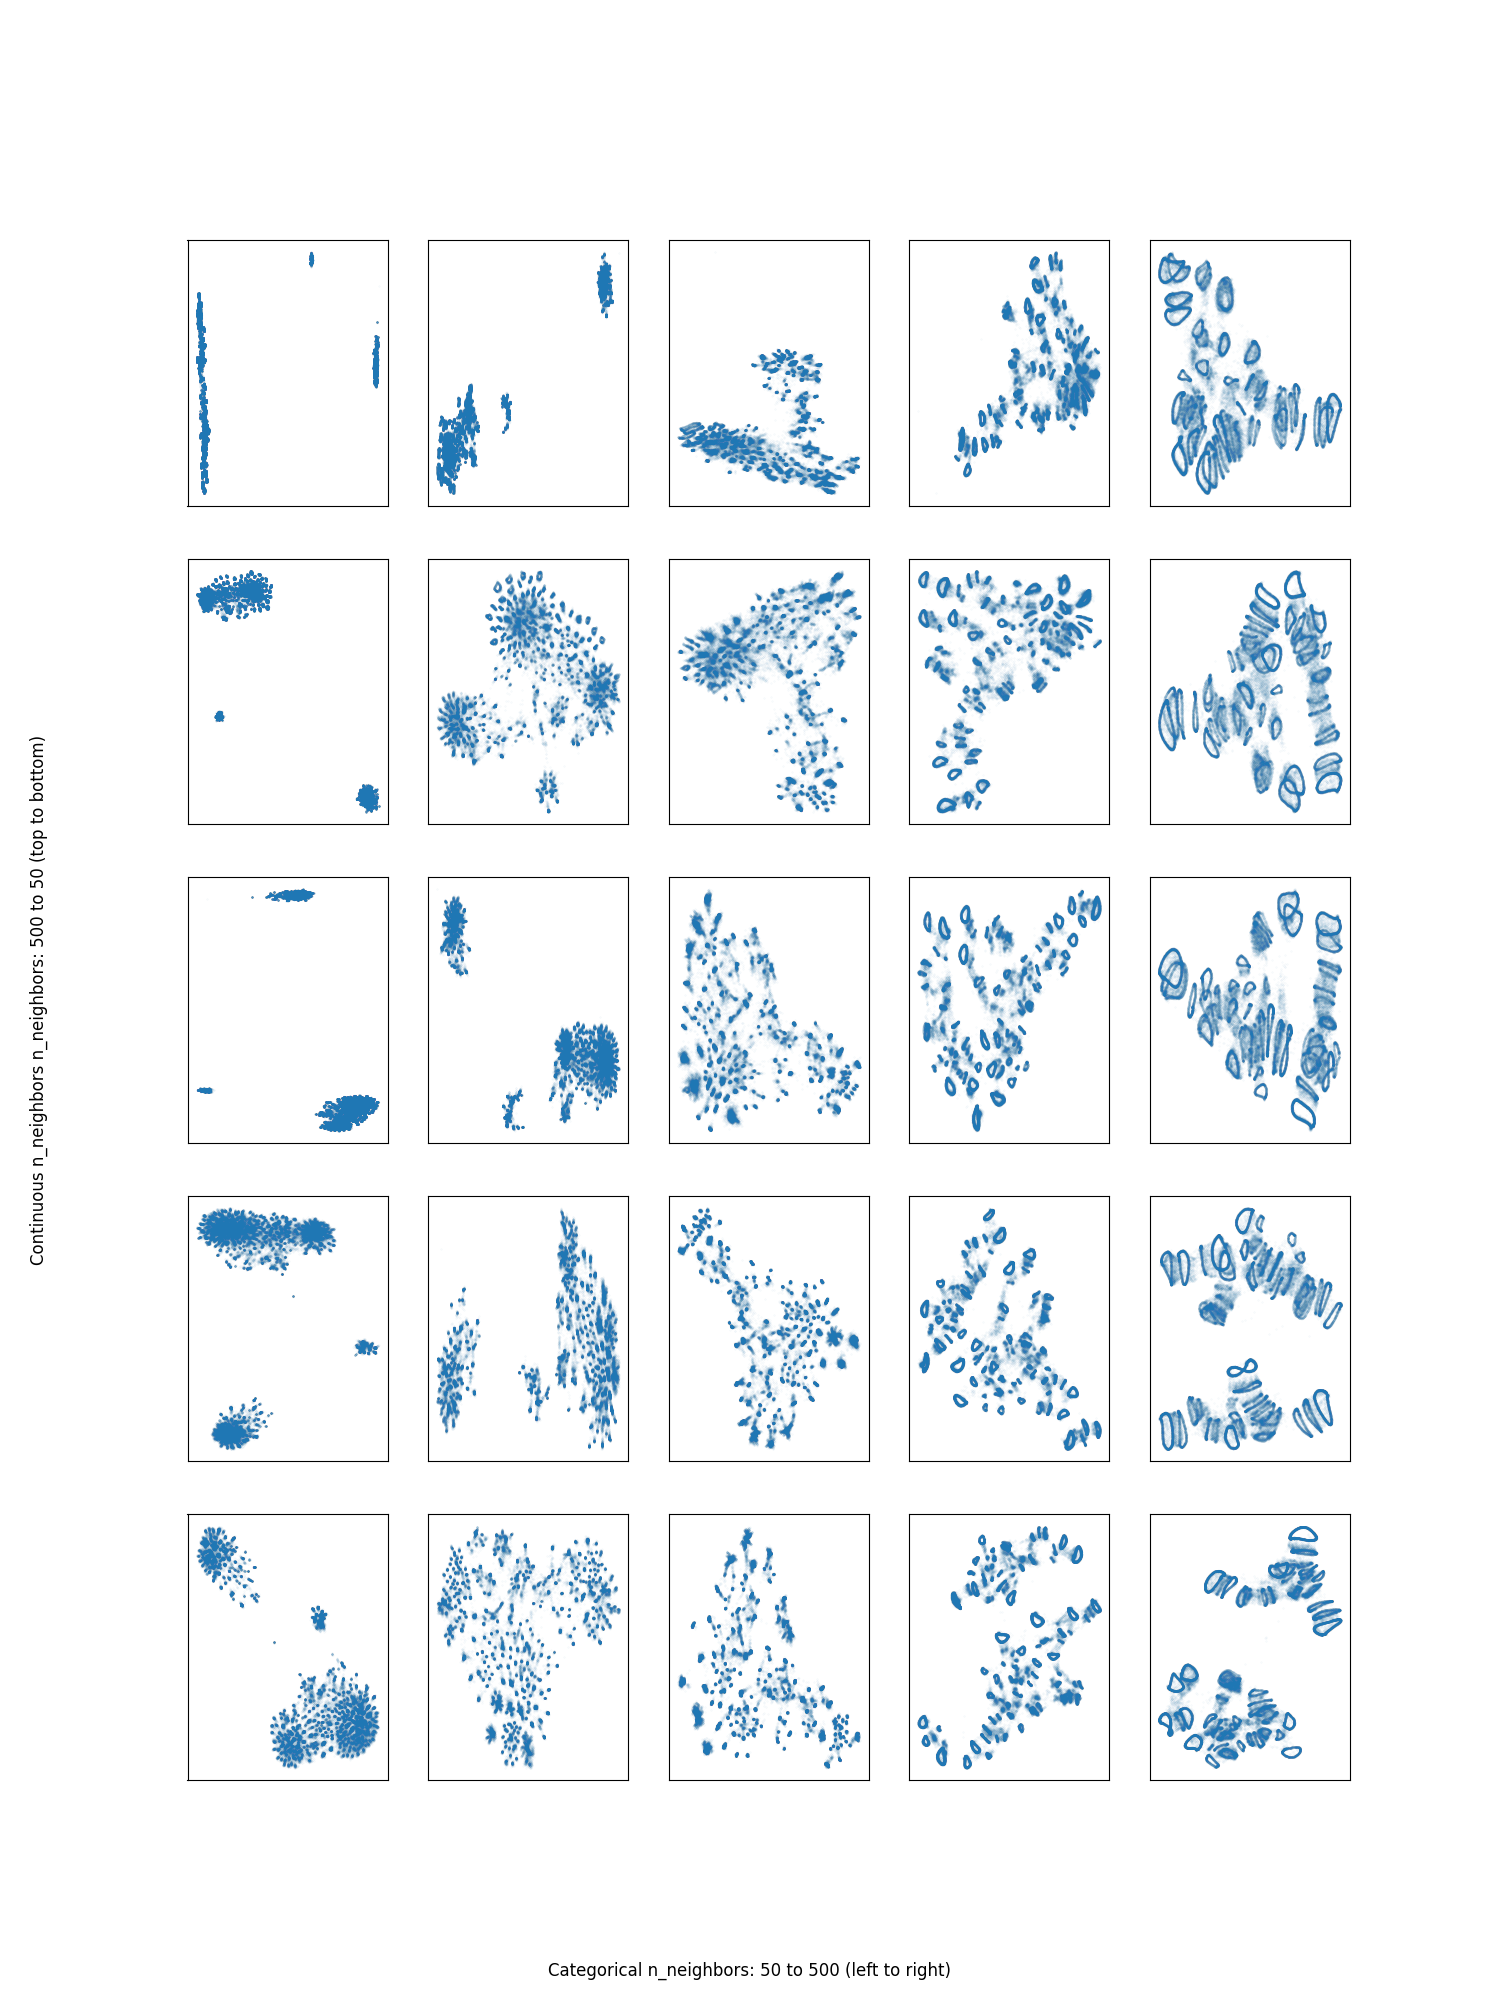
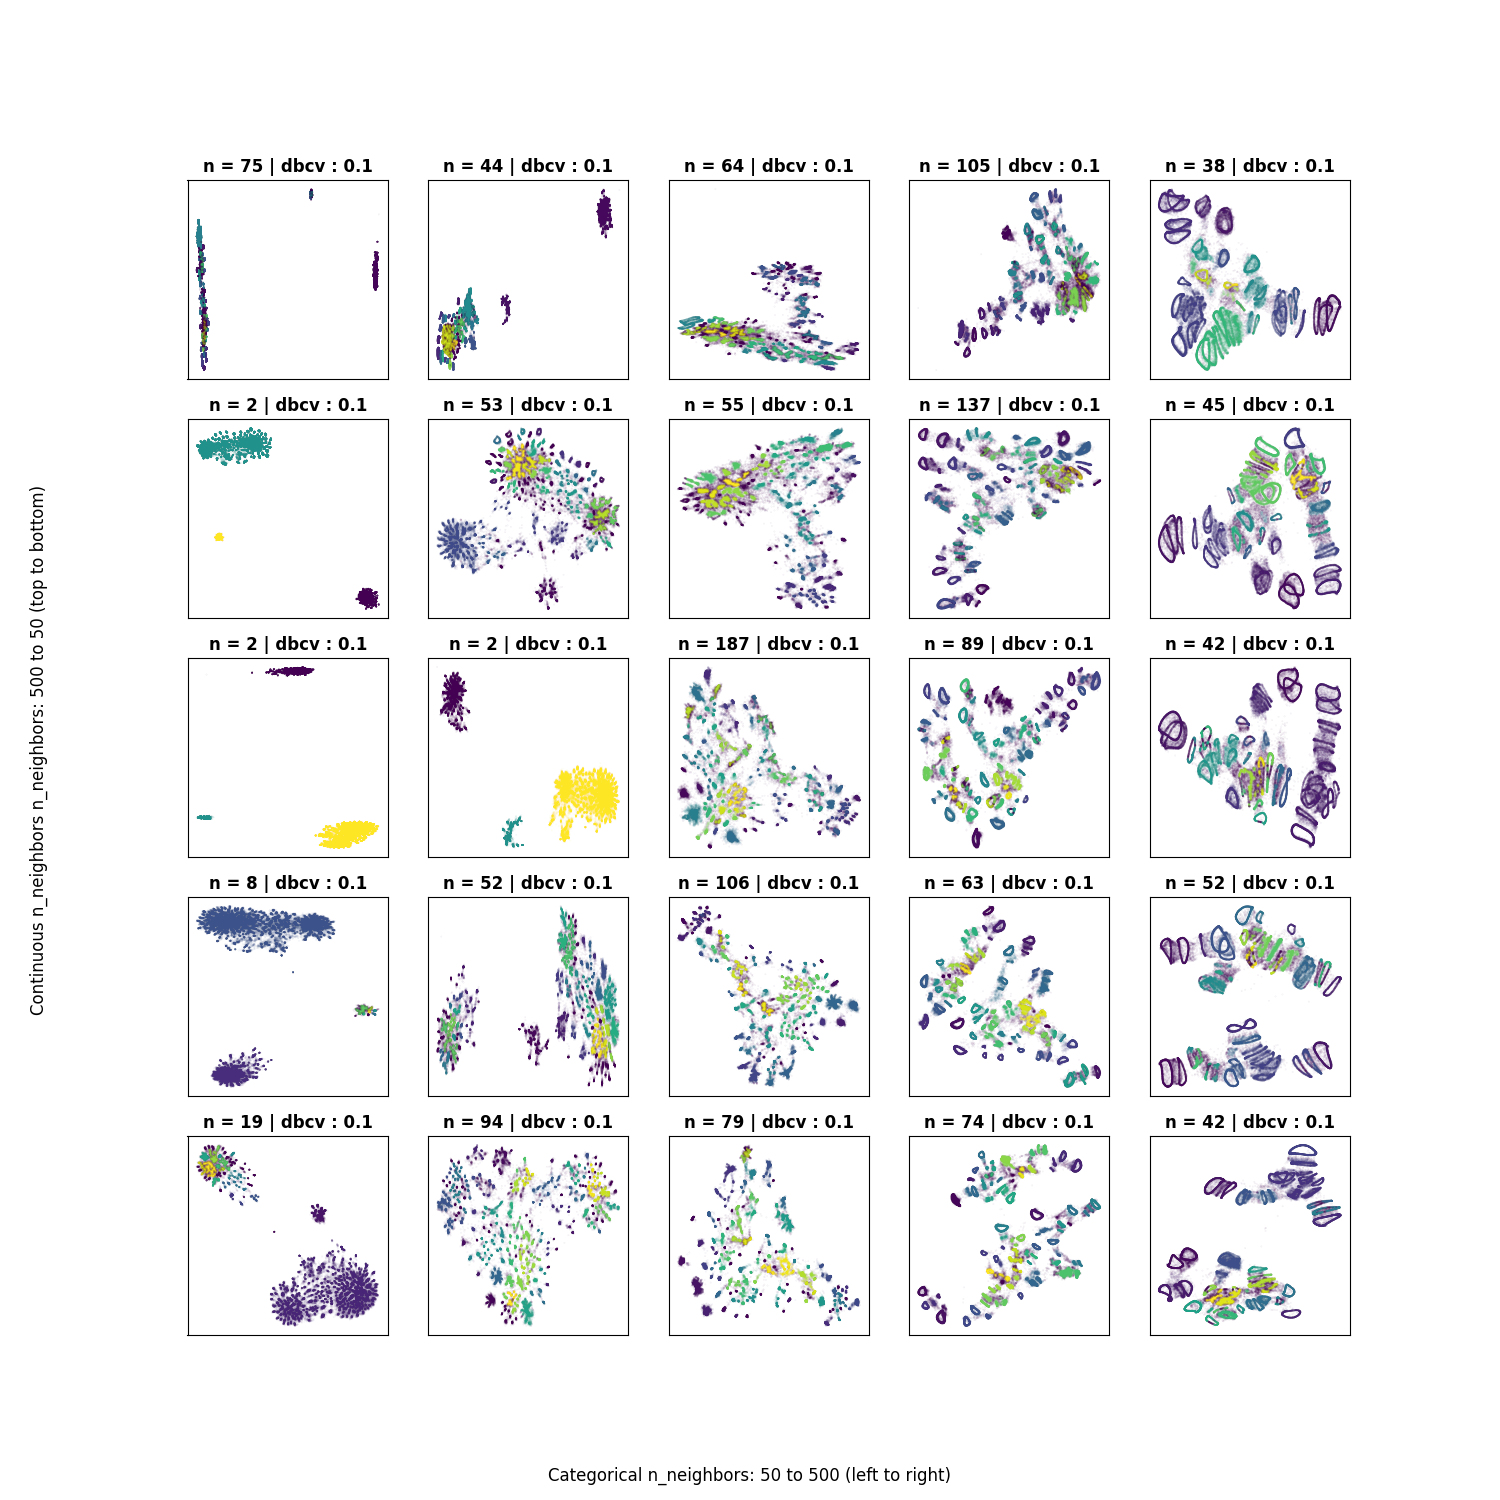
bug fix in emb plot which checks if -1 in cluster labels so not to remove one if there are no noise points

diff --git a/src/stream_3/generate_embedding_plot.py b/src/stream_3/generate_embedding_plot.py
@@ -28,10 +28,15 @@ def make_n_cluster_dict(sorted_paths : list[Path], cluster_dict_path : Path) -> 
         hdb = GenerateHDBSCAN2()
         hdb.fit(emb)
         labels = hdb.get_model().labels_
+        dbcv = hdb.get_dbcv()
         # -1 to remove inclusion of noise grouping in n_custers
-        n_unique_clusters = len(np.unique(labels)) - 1
-
-        cluster_dict[path.name] = {'n_clusters' : n_unique_clusters, 'labels' : labels}
+        n_unique_ints = np.unique(labels)
+        if -1 in n_unique_ints:
+            n_unique_clusters = len(n_unique_ints) -1 
+        else:
+            n_unique_clusters = len(n_unique_ints)
+            
+        cluster_dict[path.name] = {'n_clusters' : n_unique_clusters, 'labels' : labels, 'dbcv' : dbcv}
 
     print('Finished making cluster dictionary')
     print(f'Saving cluster dict to: {cluster_dict_path}')
@@ -42,11 +47,13 @@ def make_n_cluster_dict(sorted_paths : list[Path], cluster_dict_path : Path) -> 
     return cluster_dict
 
 if __name__ == '__main__':
-    fig, axes = plt.subplots(5, 5, figsize=(15, 20))
+    fig, axes = plt.subplots(5, 5, figsize=(15, 15))
     axes = axes.flatten()
 
+    print('Retrieving embedding paths')
     sorted_paths = retrieve_sort_emb_paths()
     cluster_dict_path = ROOT / 'src' / 'stream_3' / 'hdb_clusters'  / 'hdb_cluster_dict.pkl'
+    print('Checking if cluster dictionary has been found...')
 
     if not cluster_dict_path.exists():
         print('Cluster dictionary has not been found.')
@@ -65,16 +72,20 @@ if __name__ == '__main__':
     for idx, path in enumerate(sorted_paths):
         labels = cluster_dict[path.name]['labels']
         n_clusters = cluster_dict[path.name]['n_clusters']
+        dbcv = cluster_dict[path.name]['dbcv']
 
         emb = np.load(path)
 
         axes[idx].scatter(emb[:,0], emb[:,1], s=0.05, alpha=0.1, c=labels)
         axes[idx].set_xticks([])
         axes[idx].set_yticks([])
+        axes[idx].set_title(f'n = {n_clusters} | dbcv : {dbcv:.2f}', fontweight='bold')
 
     fig.supxlabel('Categorical n_neighbors: 50 to 500 (left to right)')
     fig.supylabel('Continuous n_neighbors n_neighbors: 500 to 50 (top to bottom)')
-    fig.savefig('full_emb_plot.png')
+
+    save_path = ROOT / 'figures' / 'umap' / 'full_emb_plot.png'
+    fig.savefig(save_path)
 
 
 
